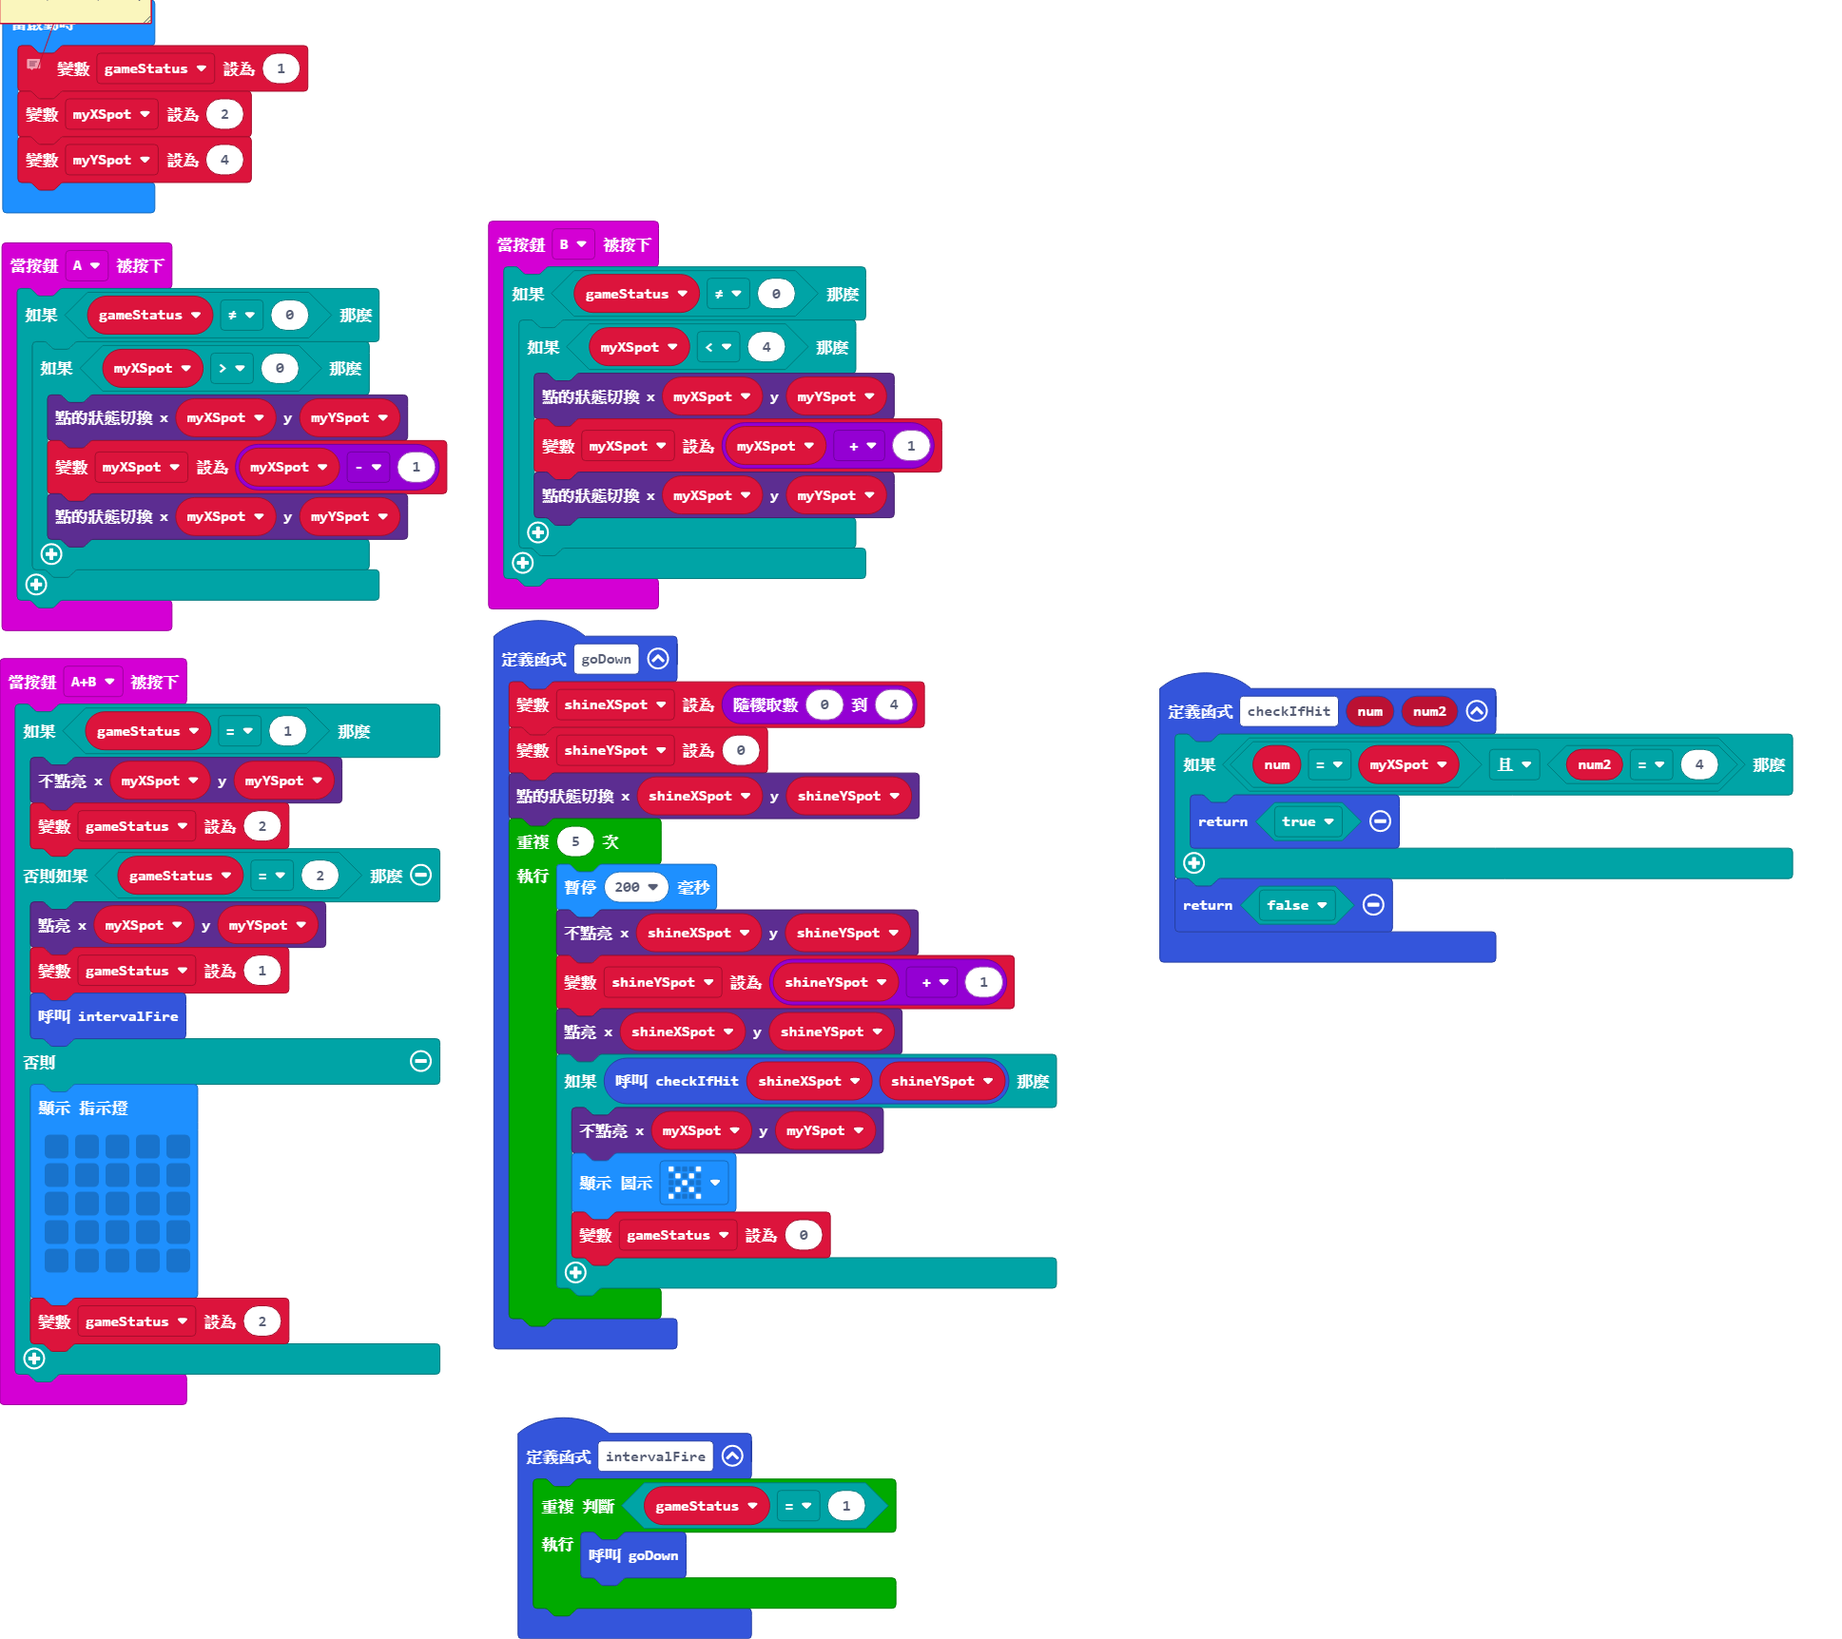
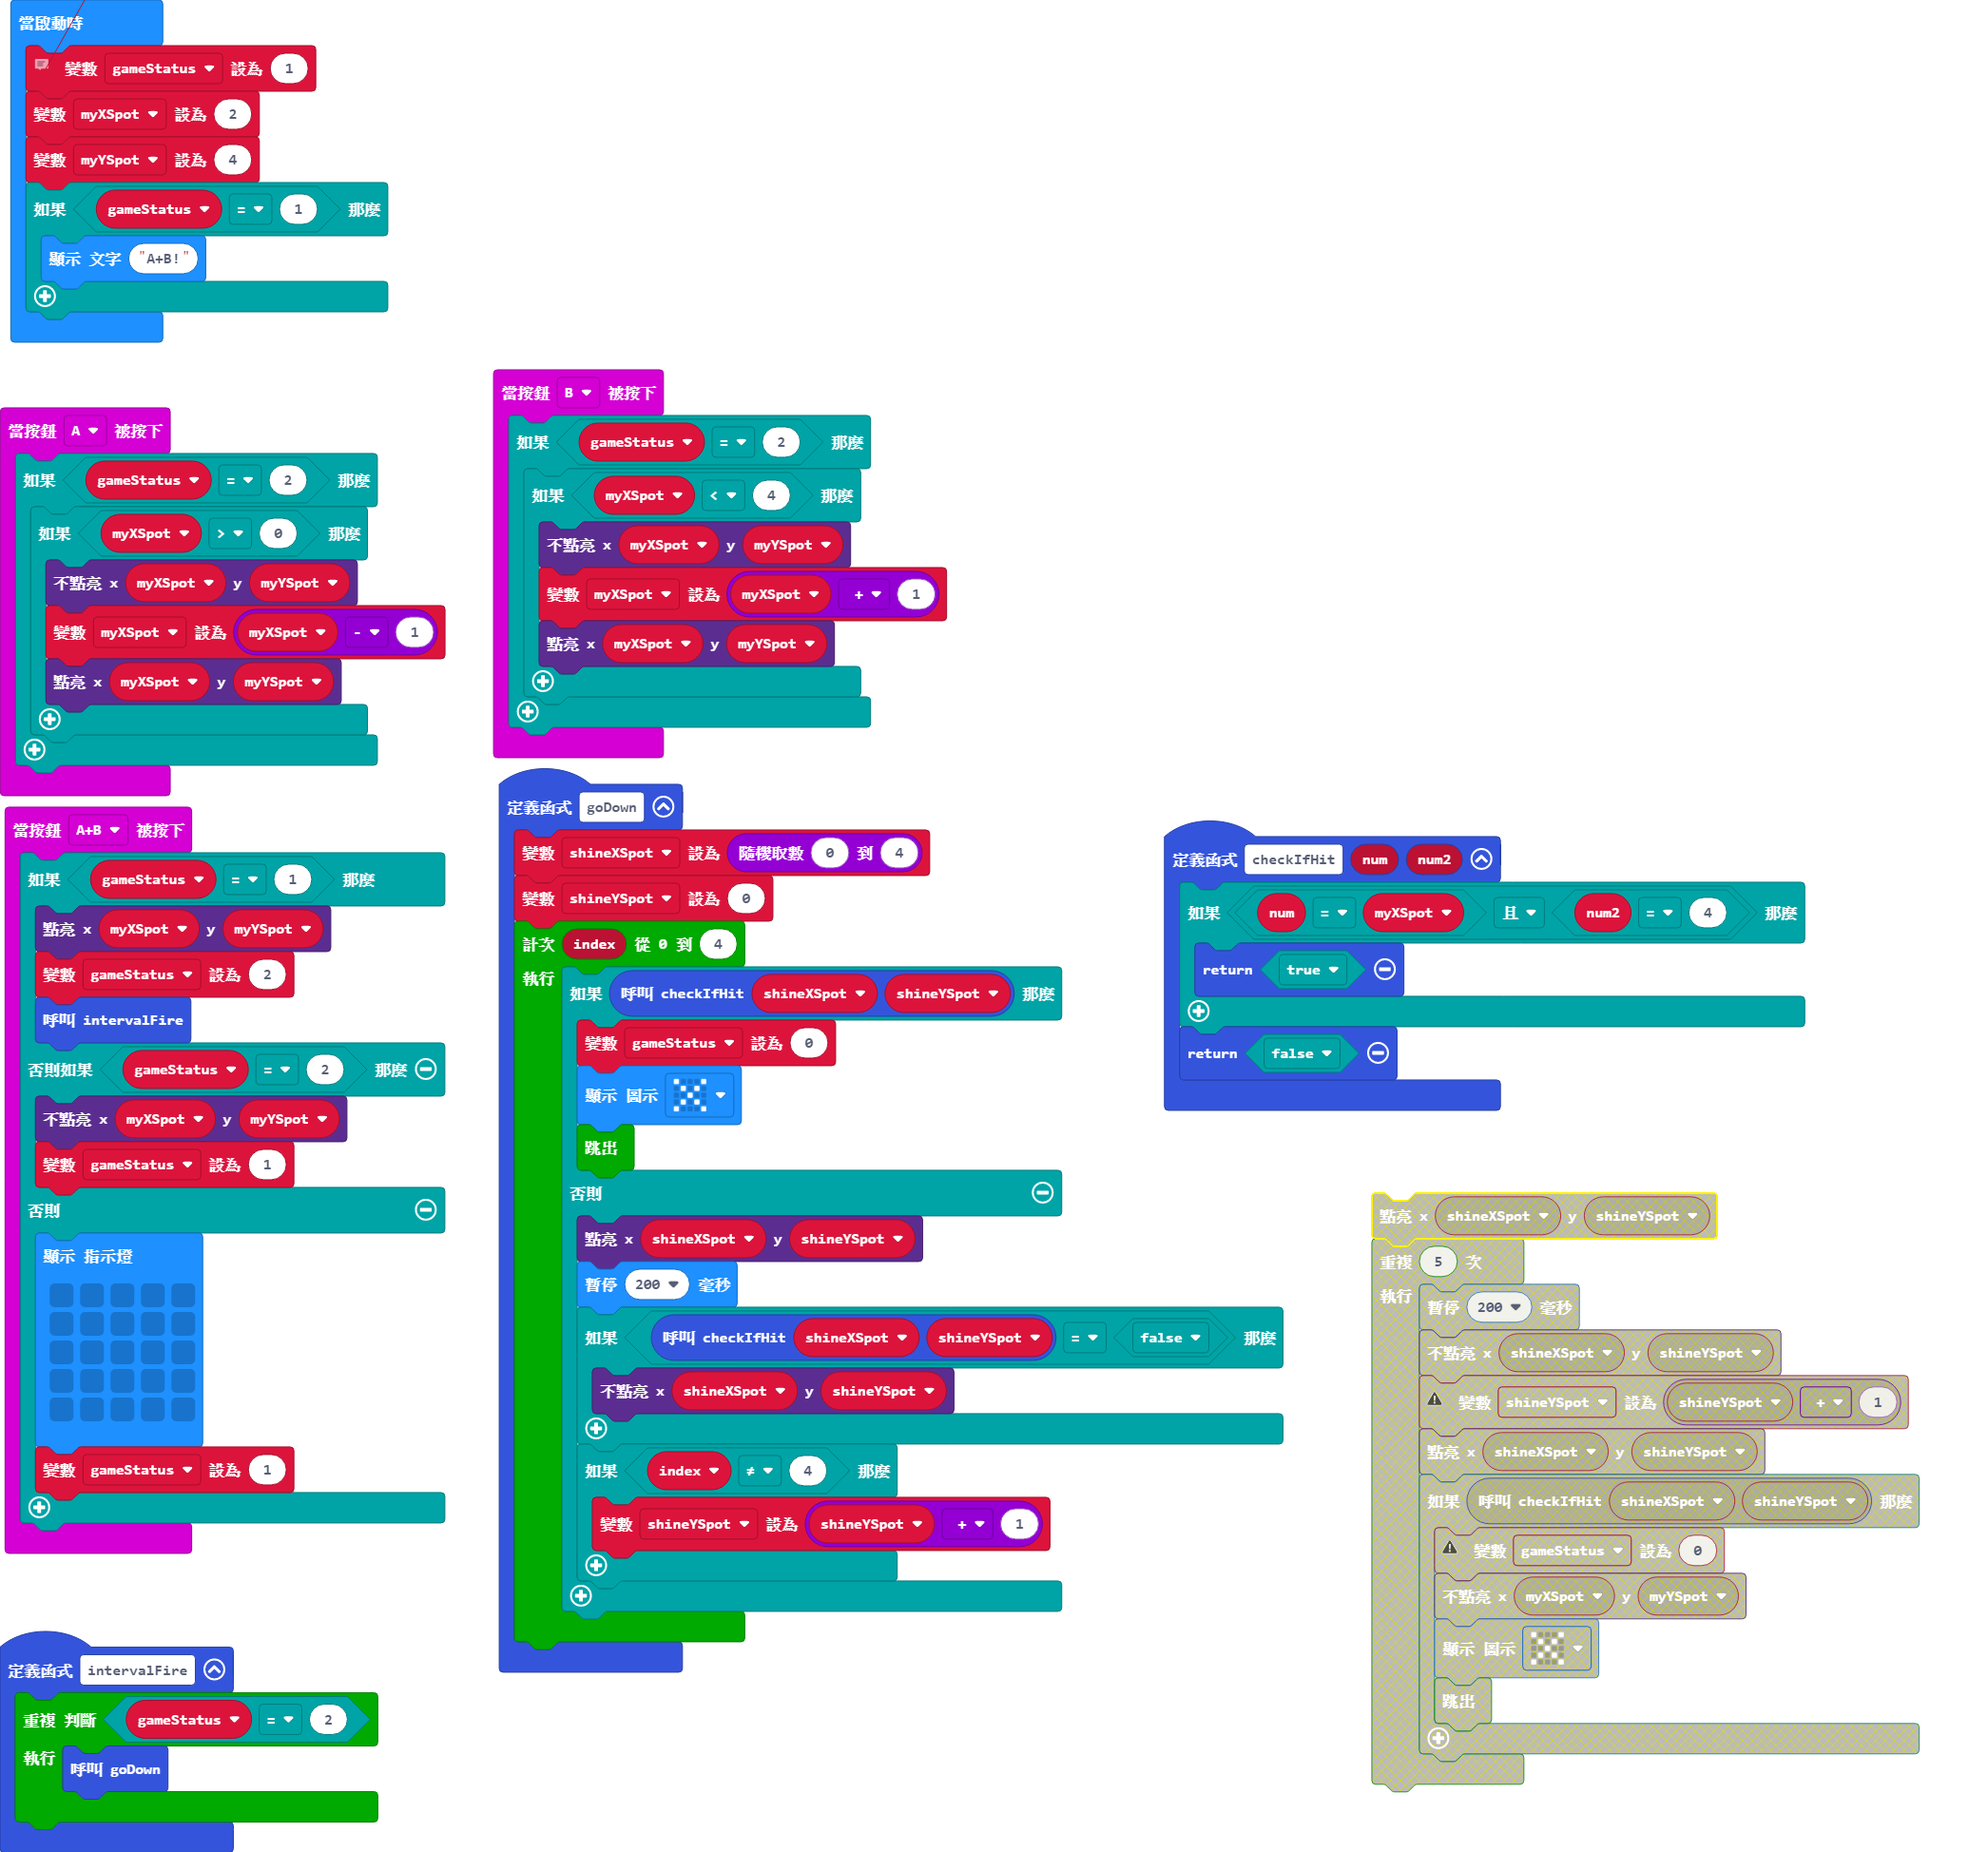
small adjust

diff --git a/main.ts b/main.ts
@@ -1,14 +1,14 @@
 input.onButtonPressed(Button.A, function () {
-    if (gameStatus != 0) {
+    if (gameStatus == 2) {
         if (myXSpot > 0) {
-            led.toggle(myXSpot, myYSpot)
+            led.unplot(myXSpot, myYSpot)
             myXSpot = myXSpot - 1
-            led.toggle(myXSpot, myYSpot)
+            led.plot(myXSpot, myYSpot)
         }
     }
 })
 function intervalFire () {
-    while (gameStatus == 1) {
+    while (gameStatus == 2) {
         goDown()
     }
 }
@@ -20,12 +20,12 @@ function checkIfHit (num: number, num2: number) {
 }
 input.onButtonPressed(Button.AB, function () {
     if (gameStatus == 1) {
-        led.unplot(myXSpot, myYSpot)
-        gameStatus = 2
-    } else if (gameStatus == 2) {
         led.plot(myXSpot, myYSpot)
-        gameStatus = 1
+        gameStatus = 2
         intervalFire()
+    } else if (gameStatus == 2) {
+        led.unplot(myXSpot, myYSpot)
+        gameStatus = 1
     } else {
         basic.showLeds(`
             . . . . .
@@ -34,31 +34,35 @@ input.onButtonPressed(Button.AB, function () {
             . . . . .
             . . . . .
             `)
-        gameStatus = 2
+        gameStatus = 1
     }
 })
 input.onButtonPressed(Button.B, function () {
-    if (gameStatus != 0) {
+    if (gameStatus == 2) {
         if (myXSpot < 4) {
-            led.toggle(myXSpot, myYSpot)
+            led.unplot(myXSpot, myYSpot)
             myXSpot = myXSpot + 1
-            led.toggle(myXSpot, myYSpot)
+            led.plot(myXSpot, myYSpot)
         }
     }
 })
 function goDown () {
     shineXSpot = randint(0, 4)
     shineYSpot = 0
-    led.toggle(shineXSpot, shineYSpot)
-    for (let index = 0; index < 5; index++) {
-        basic.pause(200)
-        led.unplot(shineXSpot, shineYSpot)
-        shineYSpot = shineYSpot + 1
-        led.plot(shineXSpot, shineYSpot)
+    for (let index = 0; index <= 4; index++) {
         if (checkIfHit(shineXSpot, shineYSpot)) {
-            led.unplot(myXSpot, myYSpot)
-            basic.showIcon(IconNames.No)
             gameStatus = 0
+            basic.showIcon(IconNames.No)
+            break;
+        } else {
+            led.plot(shineXSpot, shineYSpot)
+            basic.pause(200)
+            if (checkIfHit(shineXSpot, shineYSpot) == false) {
+                led.unplot(shineXSpot, shineYSpot)
+            }
+            if (index != 4) {
+                shineYSpot = shineYSpot + 1
+            }
         }
     }
 }
@@ -67,7 +71,10 @@ let shineXSpot = 0
 let myYSpot = 0
 let myXSpot = 0
 let gameStatus = 0
-// 0:over, 1:start, 2:stop
+// 0:over, 1:stop, 2:start
 gameStatus = 1
 myXSpot = 2
 myYSpot = 4
+if (gameStatus == 1) {
+    basic.showString("A+B!")
+}
